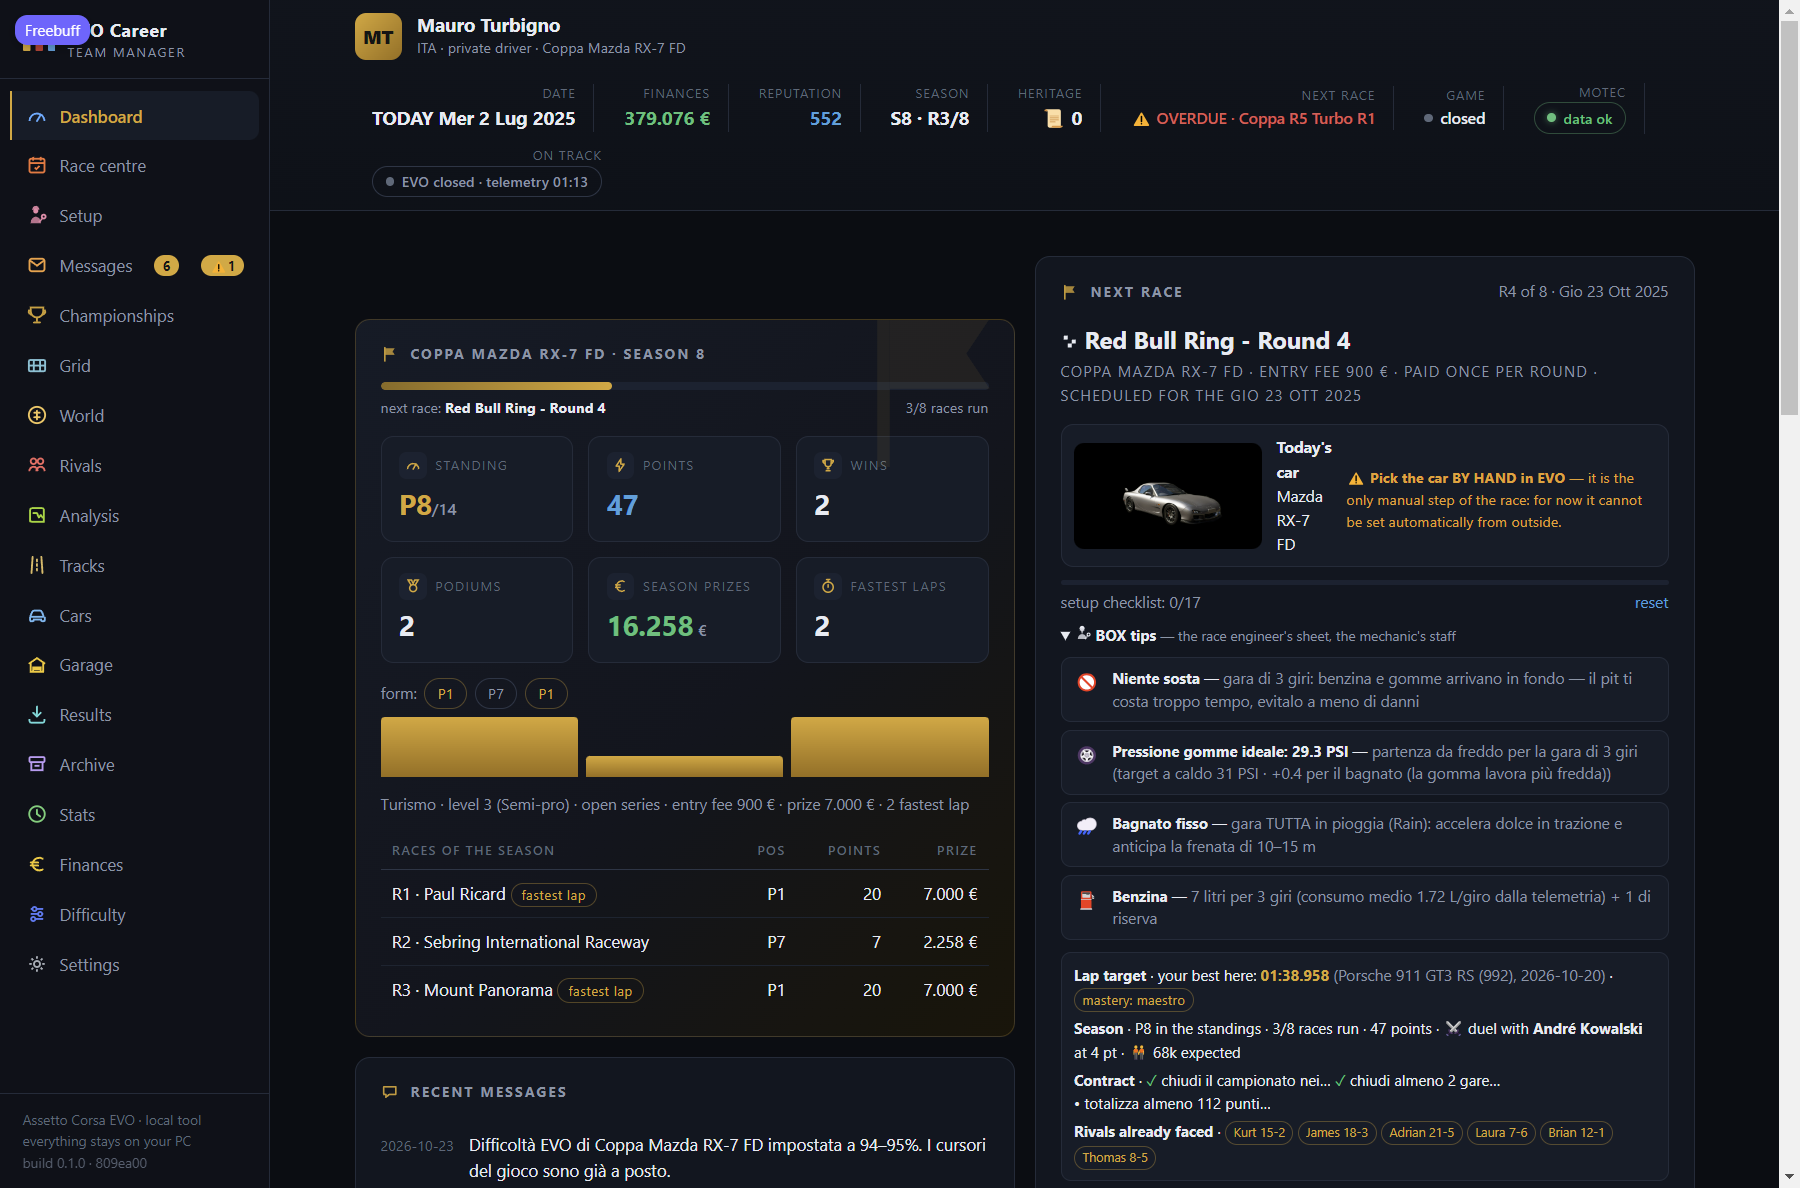
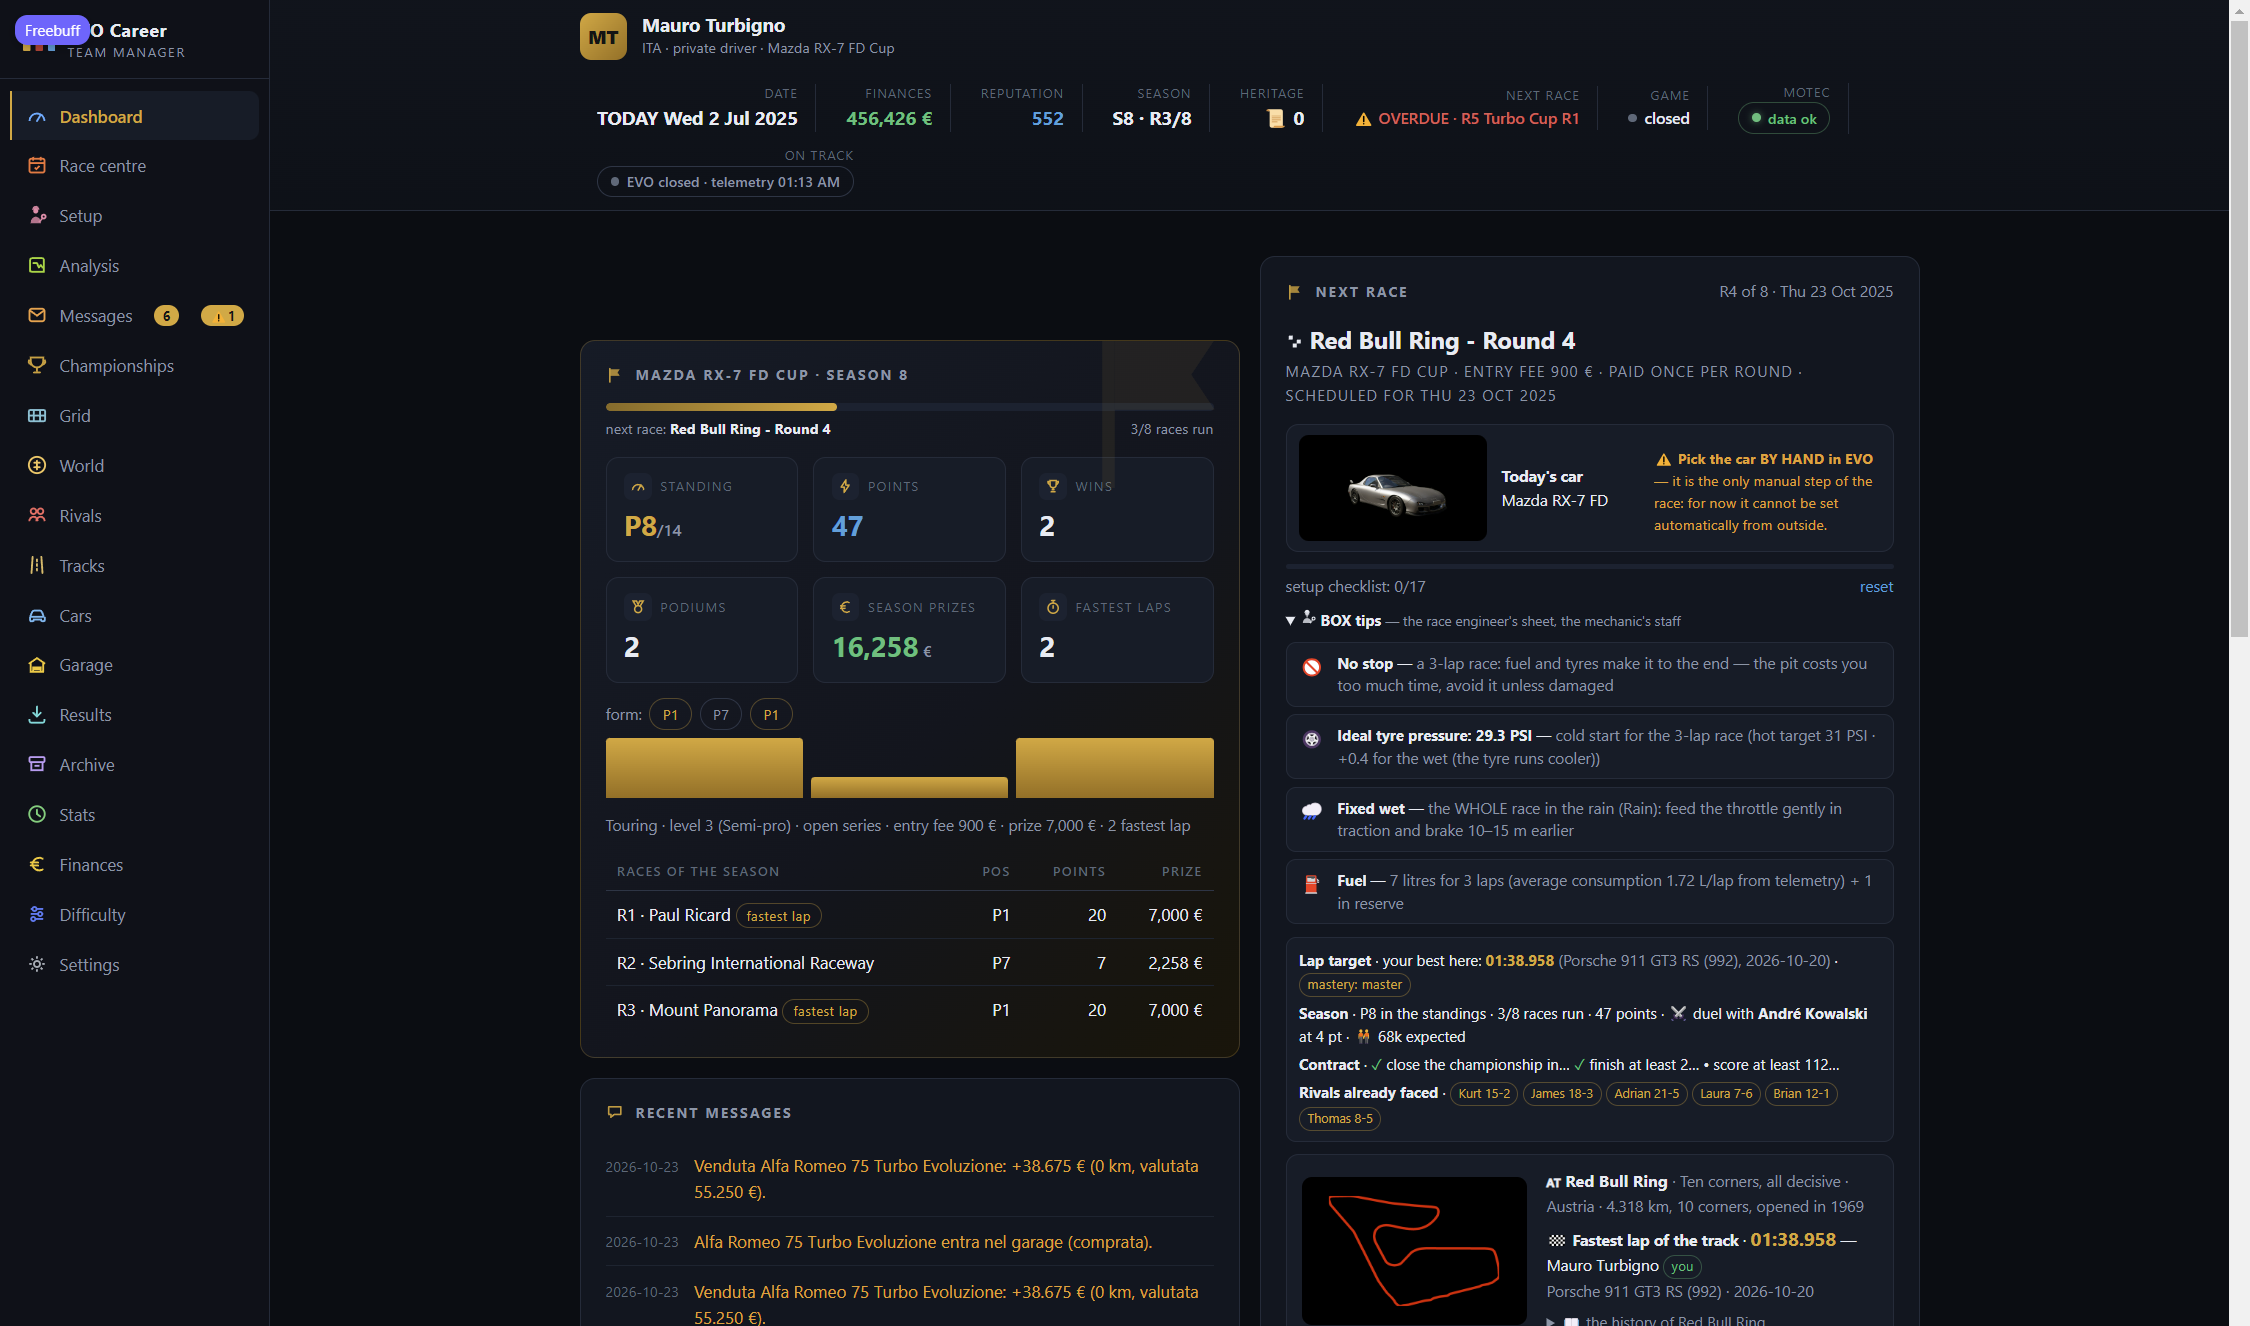
Guida-AMICO FAQ, meccanico coperto da test, README 0.1.4 e schermate rigenerate con residui di lingua chiusi (vendita, sconosciuta)

diff --git a/gui/js/viste-b.js b/gui/js/viste-b.js
@@ -546,7 +546,7 @@ async function drawBanca(m){
   const rowsHtml = rows
     .filter(r=>bancaView.filter==='in' ? Number(r.money??0)>0 : bancaView.filter==='out' ? Number(r.money??0)<0 : true)
     .map((r)=>{ const k=KIND[r.kind]||{icon:'•',label:r.kind,side:null}; const m=Number(r.money??0);
-      return `<tr><td class="faint" style="white-space:nowrap">${esc(String(r.at||'').slice(5,16).replace('T',' '))}</td><td>${k.icon} <span class="muted">${esc(k.label)}</span></td><td>${esc(r.reason??'')}</td><td class="right" style="white-space:nowrap">${m?`<span style="color:${m>0?'var(--good)':'var(--bad)'};font-weight:600">${m>0?'+':''}${money(m)} €</span>`:(r.rep?`<span class="faint">rep ${r.rep>0?'+':''}${r.rep}</span>`:'')}</td></tr>`;
+      return `<tr><td class="faint" style="white-space:nowrap">${esc(String(r.at||'').slice(5,16).replace('T',' '))}</td><td>${k.icon} <span class="muted">${esc(k.label)}</span></td><td>${esc(legacyIt(r.reason??''))}</td><td class="right" style="white-space:nowrap">${m?`<span style="color:${m>0?'var(--good)':'var(--bad)'};font-weight:600">${m>0?'+':''}${money(m)} €</span>`:(r.rep?`<span class="faint">rep ${r.rep>0?'+':''}${r.rep}</span>`:'')}</td></tr>`;
     }).join('');
   m.innerHTML = `
   <div class="panel">

diff --git a/gui/js/viste-a.js b/gui/js/viste-a.js
@@ -776,7 +776,7 @@ function drawCardInto(el, card){
       } else {
         liveBox.className = 'livebar live-off';
         const s = r.session ?? {};
-        liveBox.innerHTML = `<span class="dot on"></span><span class="st">EVO aperto</span><span class="sep">·</span><span class="muted">${esc(s.type ?? '')} · ${esc(s.track ?? '?')} ${esc(s.layout ?? '')} · ${esc(s.session.name || tr({ it: 'sessione libera', en: 'free session' }))}</span>`;
+        liveBox.innerHTML = `<span class="dot on"></span><span class="st">${tr({ it: 'EVO aperto', en: 'EVO open' })}</span><span class="sep">·</span><span class="muted">${esc(legacyIt(s.type ?? ''))} · ${esc(s.track ?? '?')} ${esc(s.layout ?? '')} · ${esc(s.session.name || tr({ it: 'sessione libera', en: 'free session' }))}</span>`;
       }
     } catch { /* server occupato: riprova al prossimo giro */ }
     setTimeout(pollLive, 2000);

diff --git a/gui/js/viste-d.js b/gui/js/viste-d.js
@@ -619,7 +619,7 @@ async function drawLiveStrip(){
       return;
     }
     const p = r.player;
-    if (!p || !r.live){ host.className = 'chip'; host.innerHTML = `<span class="dot on"></span> ${tr({ it: 'EVO aperto', en: 'EVO open' })} · ${esc(r.session?.type ?? '')}`; return; }
+    if (!p || !r.live){ host.className = 'chip'; host.innerHTML = `<span class="dot on"></span> ${tr({ it: 'EVO aperto', en: 'EVO open' })} · ${esc(legacyIt(r.session?.type ?? ''))}`; return; }
     host.className = 'chip gold';
     const rec = w?.armed ? tr({ it: ' · ⏺ registrazione', en: ' · ⏺ recording' }) : '';
     host.innerHTML = `<span class="dot on"></span> ${p.position ? 'P'+p.position+'/'+p.drivers : 'in pista'}${p.lapsTotal?` · giro ${p.lapNo ?? p.lapsDone+1}/${p.lapsTotal}`:''}${p.gapAhead?` · +${p.gapAhead.toFixed(1)}s`:''}${p.bestLap?` · best ${p.bestLap}`:''}${rec}`;

diff --git a/gui/js/lang.js b/gui/js/lang.js
@@ -28,6 +28,10 @@ window.legacyIt = (s) => {
   if (window.LINGUA !== 'en') return t;
   return t
     .replace(/\bvinta in\b/g, 'won in')
+    /* chip live e stati di sessione (src/shmem.mjs scrive la parola italiana): */
+    .replace(/\bsconosciuta\b/g, 'unknown')
+    /* movimenti del garage nei flussi (src/garage.mjs, memo storici): */
+    .replace(/\bvendita ([^()]+) \((\d+) km, valutata ([\d.,]+) €\)/g, 'sale $1 ($2 km, appraised $3 €)')
     .replace(/\bvittoria con\b/g, 'win with')
     .replace(/\bsulla P(\d+)\b/g, 'over P$1')
     .replace(/\bcampo troppo debole per la tua mano\b/g, 'field too soft for your hand')

diff --git a/GUIDA-AMICO.md b/GUIDA-AMICO.md
@@ -92,3 +92,54 @@ Dalla GUI c'è anche la banda **Aggiornamenti** sopra il Cruscotto, col bottone
 | il wizard non trova EVO | gioco mai avviato? cartelle dati non in `Saved Games\ACE`? forza con `setup --data ... --game ...` |
 | `content --validate` lamenta auto/piste | l'installazione EVO non ha quel DLC/mod: sostituisci la serie o raggiorna il gioco |
 | l'import dei risultati non parte col watcher | il nome pilota nel save deve coincidere col nome in EVO; guarda «Messaggi» o `node ac-evo-career.mjs import --inspect` |
+
+---
+
+## Appendice — FAQ e problemi frequenti
+
+Le risposte di use quotidiano, le stesse del README con qualche caso in più
+tipico del primo avvio su un PC nuovo. Se qui manca il tuo sintomo, il README
+(it) ha la sezione completa: [README.it.md](README.it.md).
+
+**L'import dice «risultato non letto / posizioni sbagliate».** Controlla che il
+file sia uno nativo (`Results\*.sessionresults.json`, non una copia risalvata)
+e che il nome del pilota combaci con `Logs\log-*.txt` (`Creating Car (Nome…)`).
+EVO scrive le posizioni da 0 e l'import lo gestisce, ma un file modificato a
+mano rompe il formato: in quel caso entra la gara a mano con
+`import --position N --cars M`.
+
+**Il Meccanico dice che manca una fonte.** Vuol dire che per quell'auto non c'è
+ancora telemetria `.ld` usabile (o il file è vuoto): fai un giro netto in gioco
+e alla prossima analisi i consigli nascono su dati veri. Spiega sempre quale
+fonte manca e su quale stima ripiega.
+
+**Due auto della stessa classe si contendono la gara a fatica.** Le griglie di
+stessa categoria prendono zavorre e penalità dalla calibrazione, non a stima:
+hanno bisogno prima di un po' di gare vere, poi ricalibrano con confidenza per
+pista. La convergenza si segue nel tab **Griglia** (`griglia-calib` è la versione
+da terminale).
+
+**La GUI mostra «cerca su disco» invece di leggere una cartella.** È voluto:
+i dialoghi del browser non restituiscono i percorsi scelti, quindi il cercatore
+sfoglia le unità del PC. Arriva fino alla cartella Risultati e conferma lì.
+
+**Ho aggiornato il gioco / spostato la libreria Steam.** Rilancia
+`node ac-evo-career.mjs setup` (oppure correggi i percorsi vivi in
+Impostazioni, senza riavviare) e passa `content --validate` per verificare che
+la scala combaci ancora.
+
+**Ho clonato ma il launcher dice «offsite non risponde».** Manca
+`git remote rename origin offsite` (capitolo 2). Onestamente: parte lo stesso,
+diciamo che gli aggiornamenti restano muti finché il remote non ha quel nome.
+
+**Ho aggiornato il codice ma la GUI è rimasta com'era.** Il codice nuovo si usa
+al prossimo riavvio del launcher: chiudi la finestra del terminale e ri-doppio
+click su `avvia.cmd`. Il piè di pagina mostra sempre la build attiva
+(`build x.y.z · hash`): se non cambia, il launcher è ancora quello vecchio.
+
+**La lingua si può cambiare?** Sì, in **Impostazioni**: vale per la GUI e anche
+per il terminale (una scelta sola, salvata nel progetto, non nel tuo save).
+
+**Perdo la carriera se aggiornano il tool?** No: gli aggiornamenti toccano solo
+codice; il save in `data/` sta fuori dal repository e non si tocca mai. Per
+prudenza il launcher tiene comunque copie del save (cartella `data/backups/`).

diff --git a/README.it.md b/README.it.md
@@ -87,24 +87,23 @@ Interfaccia in inglese nei catturi; la lingua si sceglie in Impostazioni
 
 ## Novità delle build recenti
 
-Fatto nella fascia **0.1.2–0.1.3** (ogni salvataggio via `sincronizza-git.cmd`
+Fatto nella fascia **0.1.3–0.1.4** (ogni salvataggio via `sincronizza-git.cmd`
 fa salire il numero di build mostrato nel piè della barra laterale):
 
-- **Interfaccia bilingue ovunque.** Il cambio lingua (Italiano / English) vive
-  ora nella configurazione del progetto: GUI **e** CLI mostrano sempre la stessa
-  lingua — comprese date, nomi dei giorni e testi generati tanto tempo prima,
-  che si traducono in visualizzazione senza toccare il save. Anche numeri e
-  soldi seguono la lingua (`379.076 €` in italiano, `379,076 €` in inglese).
-- **Analisi alzata.** Il tab sta ora subito sotto Setup, dove il grafico del
-  giro e il banco A/B si usano più spesso insieme.
-- **Ordinali e formati in inglese.** `1st of the grid`, il punto decimale e il
-  separatore delle migliaia adesso rispettano la lingua scelta.
-- **Le proposte di bilanciamento parlano la tua lingua.** Le nuove note di
-  calibrazione («campo troppo forte: mediana best AI +4,41 s sopra di te…»)
-  nascono bilingui alla fonte; le vecchie si traducono in visualizzazione.
-- **La sincronizzazione off-site è un click.** Lo script di sincronizzazione fa
-  salire la versione build all'inizio di tutto: il piè non può mai riportare una
-  versione vecchia dopo un aggiornamento.
+- **Il meccanico spiega le sue aree.** Ogni consiglio di setup ora cita il
+  capitolo di GUIDA-AMICO da cui nasce (gomme, aerodinamica, sospensioni,
+  freni…): il consiglio per principianti e la pagina che lo spiega sono a un
+  click di distanza. Coperti da test dedicati, perché le regole future
+  (piste/telemetria) non possano regredire.
+- **I messaggi storici leggono in inglese naturale.** Le note del paddock e di
+  calibrazione griglia scritte quando la carriera era in italiano («vinta in»,
+  «sulla base…») si traducono in visualizzazione nell'interfaccia inglese — il
+  save non viene comunque mai toccato, su cruscotto, messaggi, griglia e
+  archivio.
+- **FAQ per l'installazione della GUIDA-AMICO.** Nuova appendice con i cinque
+  problemi più frequenti (import non letto, fonte di telemetria mancante,
+  messa a punto griglia, ricerca cartelle su disco, libreria Steam spostata)
+  nello stesso stile a parole povere della guida.
 
 ## Installazione
 

diff --git a/README.md b/README.md
@@ -109,24 +109,20 @@ next race.
 
 ## What's new in the recent builds
 
-Released in the **0.1.2–0.1.3** line (every save through `sincronizza-git.cmd`
+Released in the **0.1.3–0.1.4** line (every save through `sincronizza-git.cmd`
 bumps the build number shown in the side footer):
 
-- **Bilingual interface everywhere.** The language switch (Italiano / English)
-  now lives in the project configuration, so GUI **and** CLI show the same
-  language at all times — including dates, weekday names and messages
-  generated long ago, which are translated on display without touching your
-  save. Numbers and money follow the language too (`379.076 €` in Italian,
-  `379,076 €` in English).
-- **Analysis moved up.** The tab now sits right below Setup, where the lap
-  chart and the A/B bench are used together most.
-- **Ordinals and formats in English.** `1st of the grid`, decimal points and
-  thousands separators now match the chosen language.
-- **The balance proposals speak your language.** New calibration notes
-  ("field too strong: AI best median +4.41 s above you…" ) are written
-  bilingual at the source; older ones are translated on display.
-- **The off-site sync is one click.** The sync script bumps the build version
-  first, so the footer can never show an old version after an update.
+- **The mechanic explains its areas.** Each setup recommendation now names the
+  chapter of GUIDA-AMICO it comes from (tyres, aerodynamics, suspension,
+  brakes…), so a beginner's tip and its explanation page are one click apart.
+  Covered by dedicated tests so future tracks/telemetry rules cannot regress.
+- **Legacy messages read natural English.** Paddock notes and grid calibration
+  notes written back when the career ran in Italian (`vinta in`, `sulla base…`)
+  are translated on display in the English interface — the save file is still
+  never modified, across dashboard, messages, grid and archive screens.
+- **FAQ for a friend's install.** GUIDA-AMICO gains an appendix with the five
+  most common issues (unread imports, missing telemetry source, grid tuning,
+  on-disk folder search, moved Steam library) in the same plain-words style.
 
 ## Installation
 
